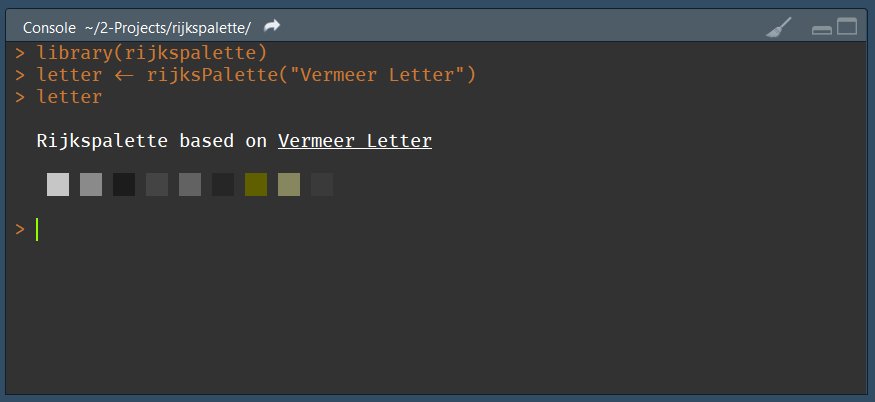
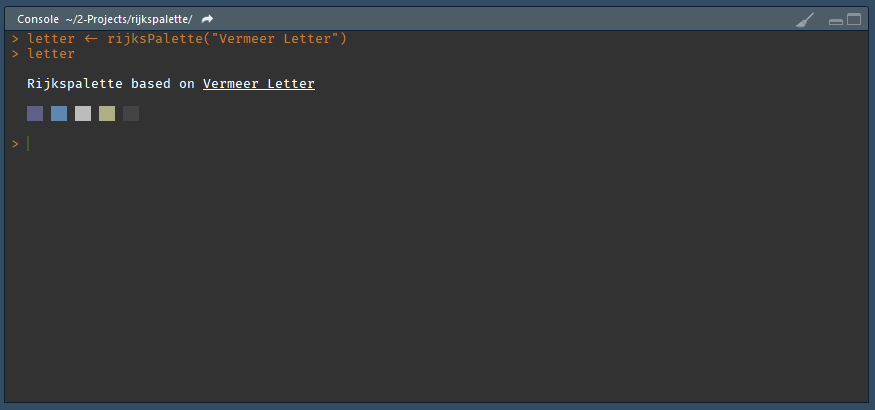
Update algorithm for palette extraction
now using Lab colour space and k-means clustering for the extraction. Brightness can still be selected, and now the number of extracted colours too.

diff --git a/README.md b/README.md
@@ -30,43 +30,48 @@ plot(letter)
 
 ![vermeer](img/vermeer.png)
 
-The palette still seems a bit dark. Luckily, we can select its brightness between 0 and 1! The default value is 0.5.
+The palette works well for the above image. However, when a painter uses many colours this does not always work well:
 
 ```R
-letter <- setBrightness(letter, 0.8)
-plot(letter)
+appel <- rijksPalette("Karel Appel")
+plot(appel)
 ```
-![brightvermeer](img/brightvermeer.png)
+![appel5](img/appel5.png)
 
-That's better. Now let's use the two most relevant items inside this object:
+Luckily, we can tune both the number of colours and the brightness of those colours:
 
 ```R
-letter$cols
+appel <- tune(appel, brightness = 0.8, k = 7)
+plot(appel)
 ```
+![appel5](img/appel7.png)
 
-The extracted colours in hexadecimal format
 
-```
-[1] "#CDCFC8" "#8E9595" "#101113" "#4D4B2C" "#5B6570" "#232722" "#454324" "#5D604D" "#3A3C38"
-attr(,"class")
-[1] "character" "rijkscols"
-```
+That's better. Now let's use the two most relevant items inside this object. First, the `cols` slot contains the extracted colours in hexadecimal format:
 
-And the palette object is a `colorRampPalette` function to be used in plots and such:
 ```R
-barplot(1:15, col = letter$palette(15))
+appel$cols
+```
+
+```
+[1] "#9C4734" "#C79734" "#29384D" "#C0C4B0" "#426C73" "#7A8D8B" "#155F7A"
+```
+
+And the `palette` object is a `colorRampPalette` function to be used in plots and such:
+
+```R
+barplot(1:15, col = appel$palette(15))
 ```
 
 ![barplot](img/barplot.png)
 
-This can become practically continuous:
-
+This can become practically continuous through interpolation:
 
 ```R
-barplot(rep(1,1500), col = letter$palette(1500), border = NA, space = 0, 
+barplot(rep(1,1500), col = appel$palette(1500), border = NA, space = 0, 
         axes = FALSE)
 ```
 
 ![contpal](img/contpal.png)
 
-
+Try it out yourself! Do post your palette on twitter with the `#rijkspalette` hashtag :)
